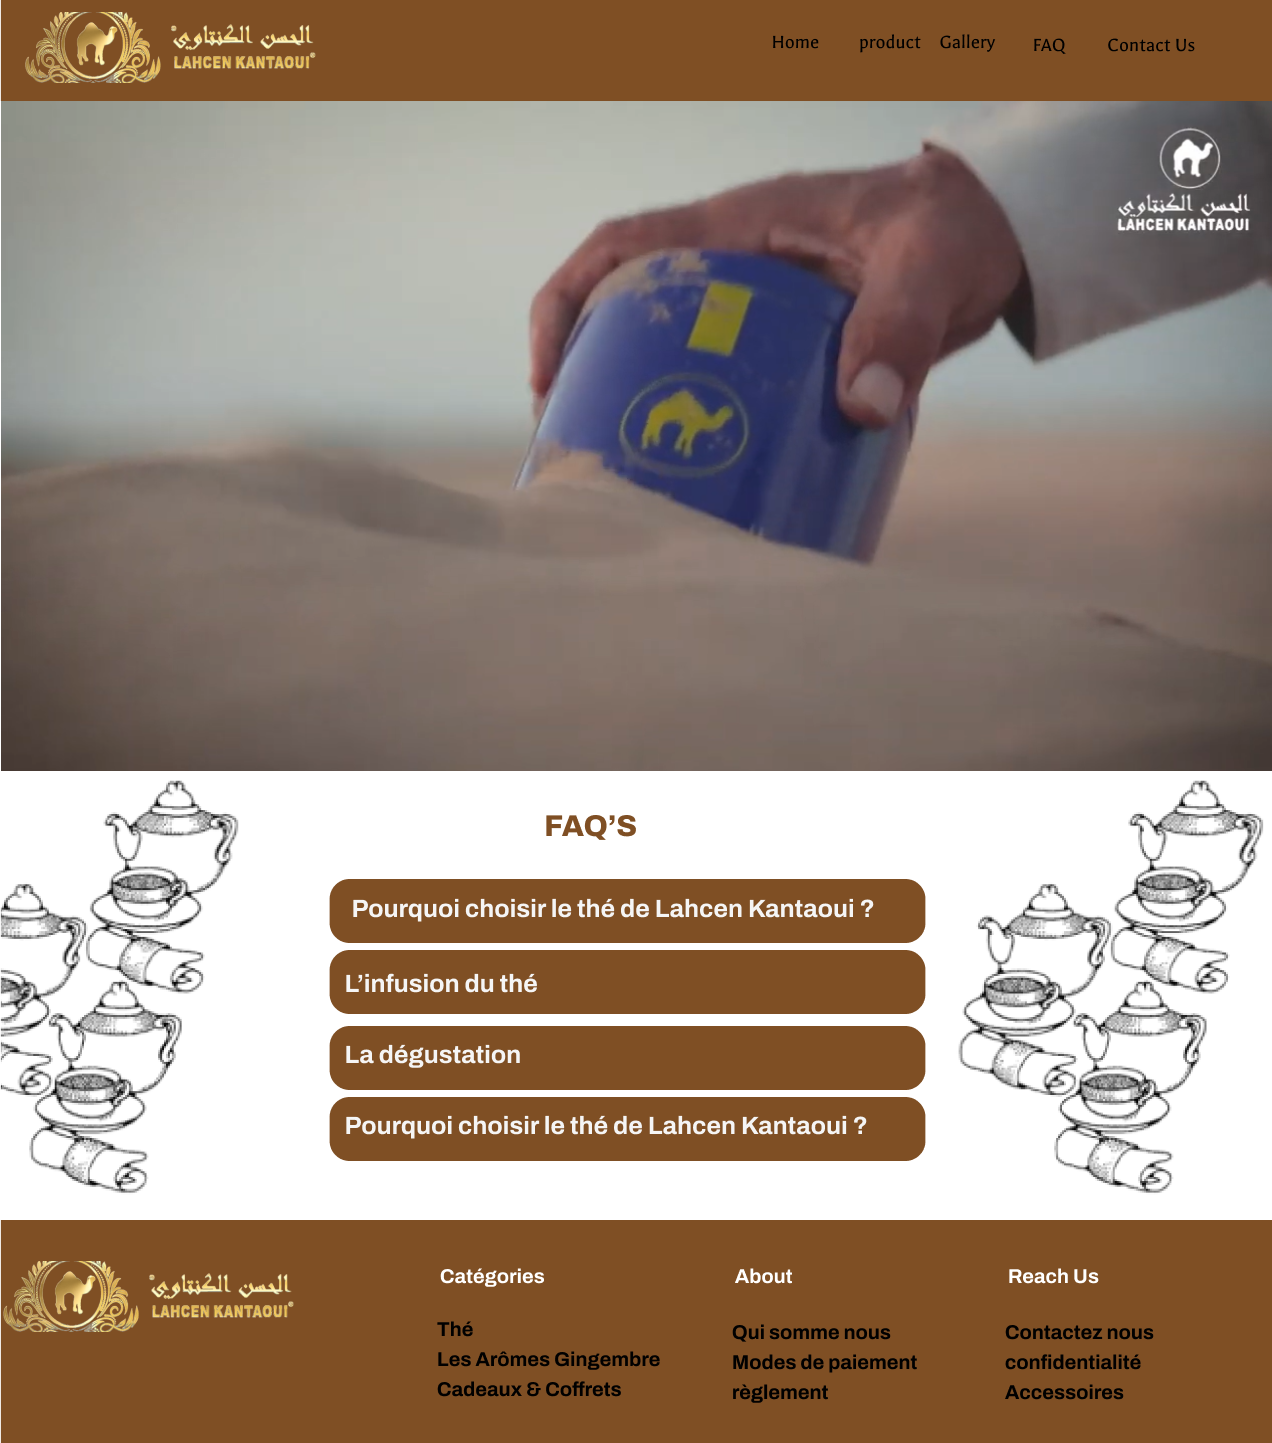
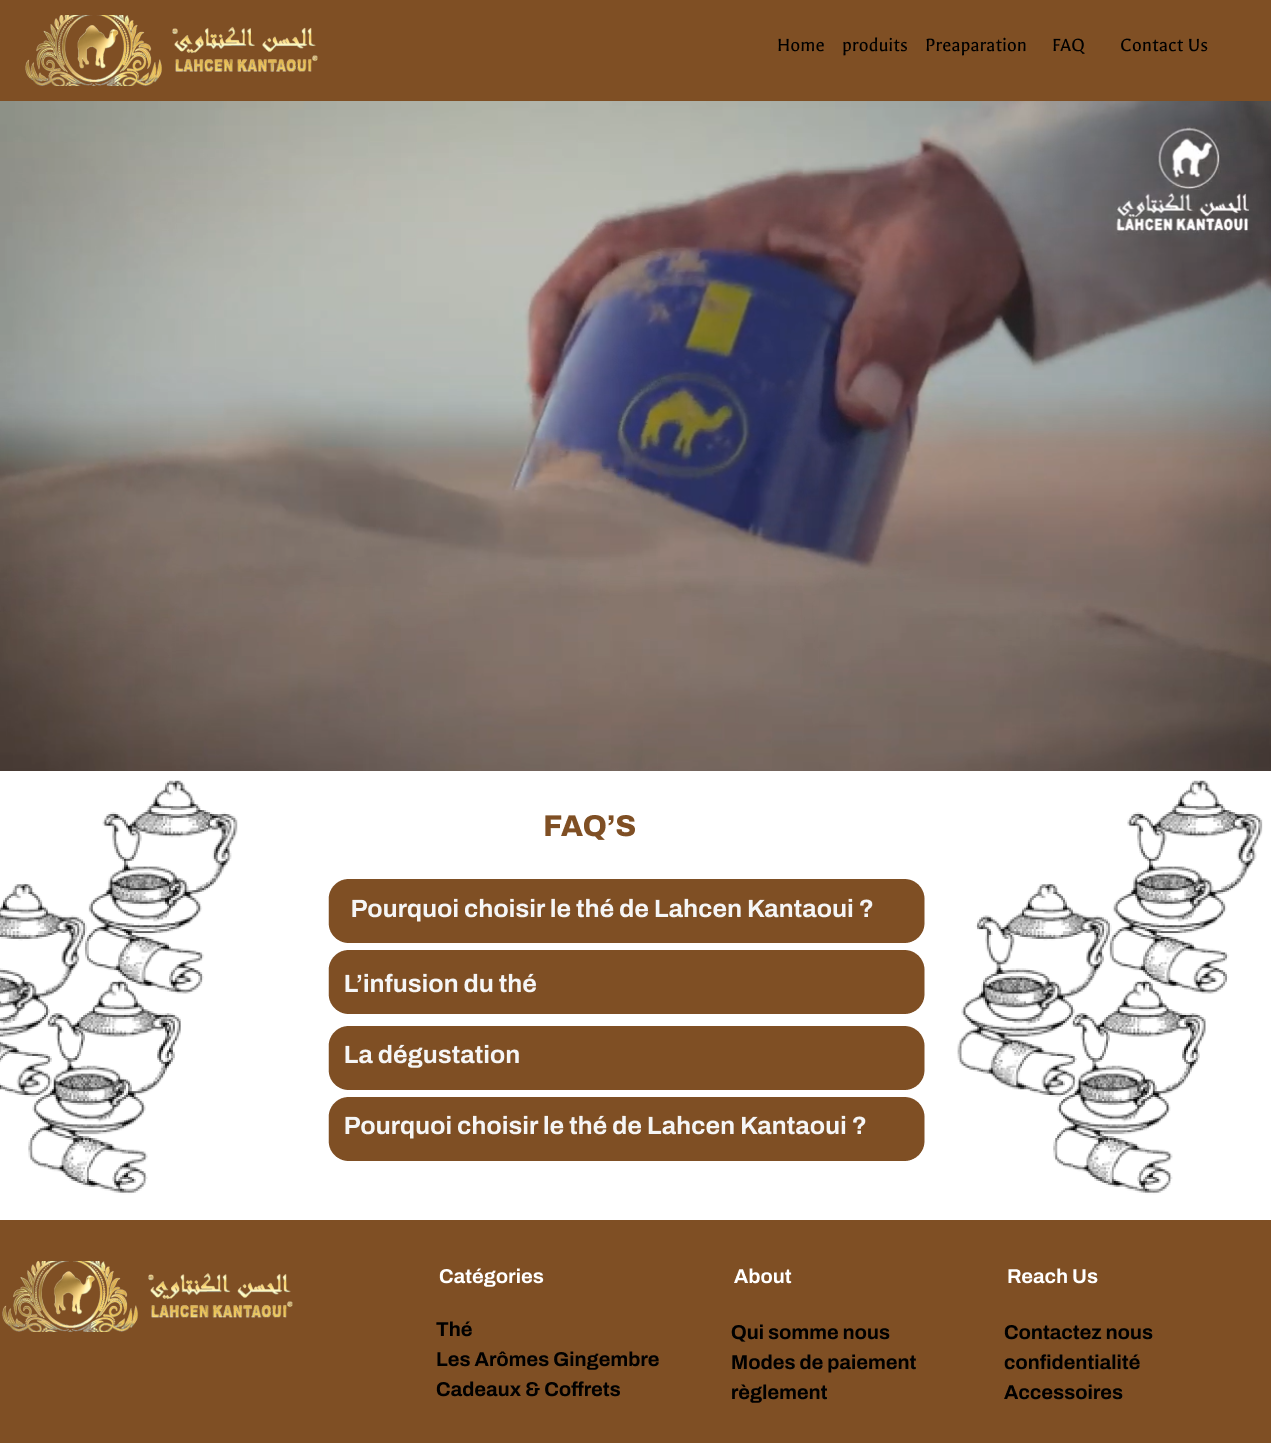
lahcen kantaoui v2

diff --git a/Kentaoui/html/contact.html b/Kentaoui/html/contact.html
@@ -12,30 +12,39 @@
         <a href="main.html" class="logo"><img src="/atay/logo.png" alt="logo" class="logo"></a>
         <nav>
             <ul role="list" class="navbar-items">
-                <li><a href="main.html">Home</a></li>
+                <li><a href="index.html">Home</a></li>
                 <li><a href="produits.html">Produits</a></li>
-                <li><a href="about.html">Preparation Thé</a></li>
+                <li><a href="about.html">Preparation </a></li>
                 <li><a href="faq.html">FAQ</a></li>
                 <li><a href="contact.html">Contact Us</a></li>
             </ul>
+            
+            <svg class="burger" xmlns="http://www.w3.org/2000/svg" height="1em" viewBox="0 0 448 512"><!--! Font Awesome Free 6.4.2 by @fontawesome - https://fontawesome.com License - https://fontawesome.com/license (Commercial License) Copyright 2023 Fonticons, Inc. --><style>svg{fill:#ffffff}</style><path d="M0 96C0 78.3 14.3 64 32 64H416c17.7 0 32 14.3 32 32s-14.3 32-32 32H32C14.3 128 0 113.7 0 96zM0 256c0-17.7 14.3-32 32-32H416c17.7 0 32 14.3 32 32s-14.3 32-32 32H32c-17.7 0-32-14.3-32-32zM448 416c0 17.7-14.3 32-32 32H32c-17.7 0-32-14.3-32-32s14.3-32 32-32H416c17.7 0 32 14.3 32 32z"/></svg>
         </nav>
 
     </div>
+    <ul role="list" class="navbar-mobile">
+        <li><a href="main.html">Home</a></li>
+        <li><a href="produits.html">Produits</a></li>
+        <li><a href="about.html">Preparation </a></li>
+        <li><a href="faq.html">FAQ</a></li>
+        <li><a href="contact.html">Contact Us</a></li>
+    </ul>
 
-    <div class="container">
+    <div class="contactpage">
 		<div class="contact-box">
 			<div class="left"></div>
 			<div class="right">
 				<h2>Contact Us</h2>
-				<input type="text" class="field" placeholder="Your Name">
-				<input type="text" class="field" placeholder="Your Email">
-				<input type="text" class="field" placeholder="Phone">
-				<textarea placeholder="Message" class="field"></textarea>
-				<button class="btn">Send</button>
+				<input type="text" class="field" placeholder="Votre Nom">
+				<input type="text" class="field" placeholder="Votre Email">
+				<input type="text" class="field" placeholder="Téléphone">
+				<textarea placeholder="Votre Message" class="field"></textarea>
+				<button class="btn">Envoyer</button>
 			</div>
 		</div>
 	</div>
-    
+
        <section class="footer">
         <div class="footer-content">
             <img src="/atay/logo.png">
@@ -62,6 +71,6 @@
 
     </section>
 
-    <script src="../javascript/main.js"></script>
+    <script src="../javascript/index.js"></script>
 </body>
 </html>

diff --git a/Kentaoui/css/style.css b/Kentaoui/css/style.css
@@ -396,7 +396,7 @@ width: 60%;
 
 
 /*****************CONTACT US **********************/
-.container{
+.contactpage{
 	position: relative;
 	width: 100%;
 	height: 100%;
@@ -404,6 +404,8 @@ width: 60%;
 	justify-content: center;
 	align-items: center;
 	padding: 20px 100px;
+   
+   
 }
 
 .contact-box{
@@ -418,7 +420,7 @@ width: 60%;
 }
 
 .left{
-	background: url("/atay/k1.png") no-repeat center;
+	background: url("/atay/contactbg.png") no-repeat center;
 	background-size: cover;
 	height: 100%;
 }
@@ -513,10 +515,11 @@ textarea{
 }
 
 .textprepar h1{
-    color: #7f4f24;
+    color: #000000;
     font-size: 3rem;
     margin-top: 20px;
     margin-bottom: 50px;
+    text-align: center;
 
 
 }
@@ -549,86 +552,3 @@ textarea{
     color: #7f4f24;
     font-weight: bolder;
 }
-
-/*******************cont***************************/
-/* .cont{
-    width: 100%;
-    height: 100vh;
-    display: grid;
-    align-items: center;
-    background: blue;
-
-}
-
-
-.contact-in{
-    width: 80%;
-    height: auto;
-    margin: auto;
-    display: flex;
-    flex-wrap: wrap;
-    
-    padding: 10px;
-    border-radius: 10px;
-    background: #333;
-    box-shadow: 0px 0px 10px 0px #666;
-}
-
-.contact-map{
-    width:100% ;
-    height: auto;
-    flex: 50%;
-}
-.contact-map iframe{
-
-    width:100% ;
-    height: 100%;
-    flex: 50%;
-}
-.contact-form{
-    width: 100%;
-    height: auto;
-    flex: 50%;
-}
-.contact-form h1{
-    margin-bottom: 10px;
-    text-align: center;
-}
-.contact-form-txt{
-    width: 100%;
-    height: 40px;
-    color: #000;
-    border: 2px solid #7f4f24;
-    border-radius: 50px;
-    outline: none;
-    margin-bottom: 20px;
-    padding: 15px;
-    justify-content: space-between;
-
-}
-.contact-form-txtarea{
-    width: 70%;
-    height: 40px;
-    color: #000;
-    border: 2px solid #7f4f24;
-    border-radius: 50px;
-    outline: none;
-    margin-bottom: 20px;
-    padding: 15px;
-   
-
-}
-.contact-form-btn{
-    width: 100%;
-    border: none;
-    outline: none;
-    border-radius:50px ;
-    background: red;
-    text-transform: uppercase;
-    padding: 10px 0 ;
-    cursor: pointer;
-    font-size: 20px;
-
-} */
-
-

diff --git a/Kentaoui/html/about.html b/Kentaoui/html/about.html
@@ -13,14 +13,24 @@
         <a href="main.html" class="logo"><img src="/atay/logo.png" alt="logo" class="logo"></a>
         <nav>
             <ul role="list" class="navbar-items">
-                <li><a href="main.html">Home</a></li>
+                <li><a href="index.html">Home</a></li>
                 <li><a href="produits.html">Produits</a></li>
-                <li><a href="about.html">Preparation Thé</a></li>
+                <li><a href="about.html">Preparation </a></li>
                 <li><a href="faq.html">FAQ</a></li>
                 <li><a href="contact.html">Contact Us</a></li>
             </ul>
+            
+            <svg class="burger" xmlns="http://www.w3.org/2000/svg" height="1em" viewBox="0 0 448 512"><!--! Font Awesome Free 6.4.2 by @fontawesome - https://fontawesome.com License - https://fontawesome.com/license (Commercial License) Copyright 2023 Fonticons, Inc. --><style>svg{fill:#ffffff}</style><path d="M0 96C0 78.3 14.3 64 32 64H416c17.7 0 32 14.3 32 32s-14.3 32-32 32H32C14.3 128 0 113.7 0 96zM0 256c0-17.7 14.3-32 32-32H416c17.7 0 32 14.3 32 32s-14.3 32-32 32H32c-17.7 0-32-14.3-32-32zM448 416c0 17.7-14.3 32-32 32H32c-17.7 0-32-14.3-32-32s14.3-32 32-32H416c17.7 0 32 14.3 32 32z"/></svg>
         </nav>
     </div>
+    <ul role="list" class="navbar-mobile">
+        <li><a href="main.html">Home</a></li>
+        <li><a href="produits.html">Produits</a></li>
+        <li><a href="about.html">Preparation </a></li>
+        <li><a href="faq.html">FAQ</a></li>
+        <li><a href="contact.html">Contact Us</a></li>
+    </ul>
+    
 <div class="textprepar">
  <h1>les étapes pour preparer le thé</h1>
 </div>
@@ -98,6 +108,6 @@
     </div>
 
 </section>
-<script src="../javascript/main.js"></script>
+<script src="../javascript/index.js"></script>
 </body>
 </html>

diff --git a/Kentaoui/html/faq.html b/Kentaoui/html/faq.html
@@ -15,14 +15,23 @@
         <a href="main.html" class="logo"><img src="/atay/logo.png" alt="logo" class="logo"></a>
         <nav>
             <ul role="list" class="navbar-items">
-                <li><a href="main.html">Home</a></li>
+                <li><a href="index.html">Home</a></li>
                 <li><a href="produits.html">Produits</a></li>
-                <li><a href="about.html">Preparation Thé</a></li>
+                <li><a href="about.html">Preparation </a></li>
                 <li><a href="faq.html">FAQ</a></li>
                 <li><a href="contact.html">Contact Us</a></li>
             </ul>
+            
+            <svg class="burger" xmlns="http://www.w3.org/2000/svg" height="1em" viewBox="0 0 448 512"><!--! Font Awesome Free 6.4.2 by @fontawesome - https://fontawesome.com License - https://fontawesome.com/license (Commercial License) Copyright 2023 Fonticons, Inc. --><style>svg{fill:#ffffff}</style><path d="M0 96C0 78.3 14.3 64 32 64H416c17.7 0 32 14.3 32 32s-14.3 32-32 32H32C14.3 128 0 113.7 0 96zM0 256c0-17.7 14.3-32 32-32H416c17.7 0 32 14.3 32 32s-14.3 32-32 32H32c-17.7 0-32-14.3-32-32zM448 416c0 17.7-14.3 32-32 32H32c-17.7 0-32-14.3-32-32s14.3-32 32-32H416c17.7 0 32 14.3 32 32z"/></svg>
         </nav>
     </div>
+    <ul role="list" class="navbar-mobile">
+        <li><a href="main.html">Home</a></li>
+        <li><a href="produits.html">Produits</a></li>
+        <li><a href="about.html">Preparation </a></li>
+        <li><a href="faq.html">FAQ</a></li>
+        <li><a href="contact.html">Contact Us</a></li>
+    </ul>
 
     <div class="video-faq" >
        
@@ -92,6 +101,6 @@
 
 </section>
 
-<script src="/Kentaoui/javascript/main.js"></script>
+<script src="/Kentaoui/javascript/index.js"></script>
 </body>
 </html>

diff --git a/Kentaoui/html/produits.html b/Kentaoui/html/produits.html
@@ -14,14 +14,23 @@
         <a href="main.html" class="logo"><img src="/atay/logo.png" alt="logo" class="logo"></a>
         <nav>
             <ul role="list" class="navbar-items">
-                <li><a href="main.html">Home</a></li>
+                <li><a href="index.html">Home</a></li>
                 <li><a href="produits.html">Produits</a></li>
-                <li><a href="about.html">Preparation Thé</a></li>
+                <li><a href="about.html">Preparation </a></li>
                 <li><a href="faq.html">FAQ</a></li>
                 <li><a href="contact.html">Contact Us</a></li>
             </ul>
+            
+            <svg class="burger" xmlns="http://www.w3.org/2000/svg" height="1em" viewBox="0 0 448 512"><!--! Font Awesome Free 6.4.2 by @fontawesome - https://fontawesome.com License - https://fontawesome.com/license (Commercial License) Copyright 2023 Fonticons, Inc. --><style>svg{fill:#ffffff}</style><path d="M0 96C0 78.3 14.3 64 32 64H416c17.7 0 32 14.3 32 32s-14.3 32-32 32H32C14.3 128 0 113.7 0 96zM0 256c0-17.7 14.3-32 32-32H416c17.7 0 32 14.3 32 32s-14.3 32-32 32H32c-17.7 0-32-14.3-32-32zM448 416c0 17.7-14.3 32-32 32H32c-17.7 0-32-14.3-32-32s14.3-32 32-32H416c17.7 0 32 14.3 32 32z"/></svg>
         </nav>
     </div>
+    <ul role="list" class="navbar-mobile">
+        <li><a href="main.html">Home</a></li>
+        <li><a href="produits.html">Produits</a></li>
+        <li><a href="about.html">Preparation </a></li>
+        <li><a href="faq.html">FAQ</a></li>
+        <li><a href="contact.html">Contact Us</a></li>
+    </ul>
 
 <section class="shop" id="shop">
     <div class="heading">

diff --git a/Kentaoui/html/index.html b/Kentaoui/html/index.html
@@ -13,7 +13,7 @@
         <a href="main.html" class="logo"><img src="/atay/logo.png" alt="logo" class="logo"></a>
         <nav>
             <ul role="list" class="navbar-items">
-                <li><a href="main.html">Home</a></li>
+                <li><a href="index.html">Home</a></li>
                 <li><a href="produits.html">Produits</a></li>
                 <li><a href="about.html">Preparation </a></li>
                 <li><a href="faq.html">FAQ</a></li>
@@ -74,6 +74,6 @@
         </div>
 
     </section>
-    <script src="../javascript/main.js"></script>
+    <script src="../javascript/index.js"></script>
 </body>
 </html>
